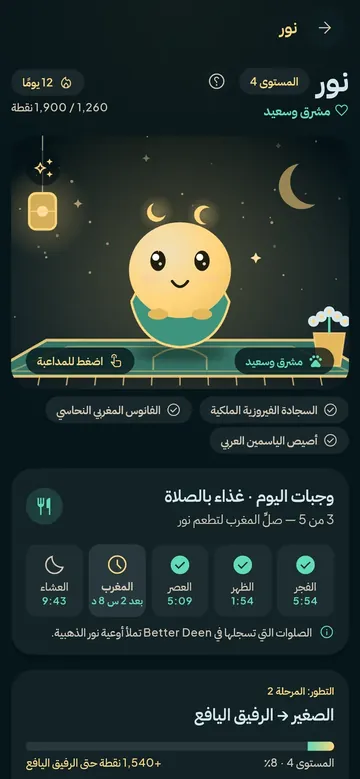
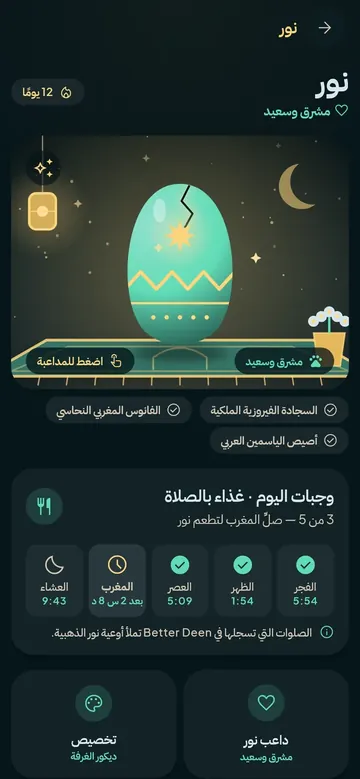
Website update

diff --git a/download-page/ar/index.html b/download-page/ar/index.html
@@ -3,7 +3,7 @@
 <head>
 <meta charset="utf-8">
 <meta name="viewport" content="width=device-width, initial-scale=1">
-<title>Better Deen · مواقيت الصلاة والقرآن ورفيقك الإسلامي</title>
+<title>Better Deen · مواقيت الصلاة والقرآن وبيضة نور</title>
 <meta name="description" content="مواقيت الصلاة والأذان، والقرآن كاملًا قراءةً واستماعًا، وAsk Deen، ونور، ومسابقة في القرآن. بلا إعلانات ولا تحليلات.">
 <meta name="theme-color" content="#06151a" media="(prefers-color-scheme: dark)">
 <meta name="theme-color" content="#fbf8f1" media="(prefers-color-scheme: light)">
@@ -13,7 +13,7 @@
 <link rel="alternate" hreflang="ar" href="https://saydencinasfedi-creator.github.io/better-deen-app/ar/index.html">
 <link rel="alternate" hreflang="nl" href="https://saydencinasfedi-creator.github.io/better-deen-app/nl/index.html">
 <link rel="alternate" hreflang="x-default" href="https://saydencinasfedi-creator.github.io/better-deen-app/">
-<meta property="og:title" content="Better Deen · مواقيت الصلاة والقرآن ورفيقك الإسلامي">
+<meta property="og:title" content="Better Deen · مواقيت الصلاة والقرآن وبيضة نور">
 <meta property="og:description" content="مواقيت الصلاة والأذان، والقرآن كاملًا قراءةً واستماعًا، وAsk Deen، ونور، ومسابقة في القرآن. بلا إعلانات ولا تحليلات.">
 <meta property="og:image" content="https://saydencinasfedi-creator.github.io/better-deen-app/og.png">
 <meta property="og:image:width" content="1200">
@@ -24,7 +24,7 @@
 <meta property="og:site_name" content="Better Deen">
 <meta property="og:locale" content="ar_AR">
 <meta name="twitter:card" content="summary_large_image">
-<meta name="twitter:title" content="Better Deen · مواقيت الصلاة والقرآن ورفيقك الإسلامي">
+<meta name="twitter:title" content="Better Deen · مواقيت الصلاة والقرآن وبيضة نور">
 <meta name="twitter:description" content="مواقيت الصلاة والأذان، والقرآن كاملًا قراءةً واستماعًا، وAsk Deen، ونور، ومسابقة في القرآن. بلا إعلانات ولا تحليلات.">
 <meta name="twitter:image" content="https://saydencinasfedi-creator.github.io/better-deen-app/og.png">
 <link rel="icon" href="../icon.png">
@@ -62,7 +62,7 @@
     <div>
       <p class="eyebrow">لأجهزة iPhone وAndroid</p>
       <h1>كن أفضل مسلم تستطيع أن تكونه</h1>
-      <p class="lead">مواقيت الصلاة والأذان، والقرآن كاملًا، ومساعد للمعرفة الإسلامية، ورفيق ينمو مع كل صلاة. هادئ وخاص وبلا إعلانات.</p>
+      <p class="lead">مواقيت الصلاة والأذان، والقرآن كاملًا، ومساعد للمعرفة الإسلامية، وبيضة مضيئة تدفأ مع كل صلاة. هادئ وخاص وبلا إعلانات.</p>
       <div class="cta">
         <a class="btn btn-primary" href="download.html">التنزيل لأجهزة Android</a>
         <a class="btn btn-ghost" href="#features">اكتشف ما بداخله</a>
@@ -80,7 +80,7 @@
 <section id="how">
   <div class="wrap">
     <h2>جاهز خلال دقيقة</h2>
-    <ol class="how"><li class="reveal"><span class="step-n">1</span><div><h3>عرّفنا بنفسك</h3><p>اختر لغتك وطريقة الحساب ومذهبك. لا نفترض لك شيئًا أبدًا.</p></div></li><li class="reveal"><span class="step-n">2</span><div><h3>صلِّ معه</h3><p>الأذان والتنبيهات والأدوات المصغّرة في وقتها. سجّل كل صلاة وشاهد نور ينمو.</p></div></li><li class="reveal"><span class="step-n">3</span><div><h3>تعمّق أكثر</h3><p>اقرأ القرآن واستمع إليه، واسأل Deen، وتعلّم الصلاة، واستخدم كل الأدوات.</p></div></li></ol>
+    <ol class="how"><li class="reveal"><span class="step-n">1</span><div><h3>عرّفنا بنفسك</h3><p>اختر لغتك وطريقة الحساب ومذهبك. لا نفترض لك شيئًا أبدًا.</p></div></li><li class="reveal"><span class="step-n">2</span><div><h3>صلِّ معه</h3><p>الأذان والتنبيهات والأدوات المصغّرة في وقتها. سجّل كل صلاة وشاهد بيضة نور تدفأ.</p></div></li><li class="reveal"><span class="step-n">3</span><div><h3>تعمّق أكثر</h3><p>اقرأ القرآن واستمع إليه، واسأل Deen، وتعلّم الصلاة، واستخدم كل الأدوات.</p></div></li></ol>
   </div>
 </section>
 <section id="ask" class="band">
@@ -120,9 +120,9 @@
   <p>الرسم العثماني مع الترجمة والنطق بالحروف اللاتينية، ومصحف صفحة بصفحة، وتلاوات مئات القرّاء، مع التنزيل للاستماع دون اتصال ومشغّل يواصل في الخلفية.</p>
 </article>
 <article class="feature reveal">
-  <div class="phone"><img src="../screens/ar-noor.webp" srcset="../screens/ar-noor-sm.webp 360w, ../screens/ar-noor.webp 600w" sizes="(max-width: 640px) 70vw, 300px" width="390" height="844" alt="نور يكبر مع صلاتك" loading="lazy" decoding="async"></div>
-  <h3>نور يكبر مع صلاتك</h3>
-  <p>رفيقك يتغذّى بالصلوات التي تسجّلها، ويرتقي مع سلسلتك ويفتح كنوزًا. سبب لطيف للعودة خمس مرات في اليوم.</p>
+  <div class="phone"><img src="../screens/ar-noor.webp" srcset="../screens/ar-noor-sm.webp 360w, ../screens/ar-noor.webp 600w" sizes="(max-width: 640px) 70vw, 300px" width="390" height="844" alt="نور، بيضة تدفأ مع صلاتك" loading="lazy" decoding="async"></div>
+  <h3>نور، بيضة تدفأ مع صلاتك</h3>
+  <p>بيضة سماوية تدفأ مع كل صلاة تسجّلها: تظهر شقوق من نور، ومع الصلوات الخمس تشعّ. المسها لتهتز، وزيّنها بالكنوز التي تفتحها. سبب لطيف للعودة خمس مرات في اليوم.</p>
 </article>
 <article class="feature reveal">
   <div class="phone"><img src="../screens/ar-quiz.webp" srcset="../screens/ar-quiz-sm.webp 360w, ../screens/ar-quiz.webp 600w" sizes="(max-width: 640px) 70vw, 300px" width="390" height="844" alt="الساحة: مسابقة في القرآن" loading="lazy" decoding="async"></div>

diff --git a/download-page/es/index.html b/download-page/es/index.html
@@ -3,7 +3,7 @@
 <head>
 <meta charset="utf-8">
 <meta name="viewport" content="width=device-width, initial-scale=1">
-<title>Better Deen · Horarios de oración, Corán y tu compañero islámico</title>
+<title>Better Deen · Horarios de oración, Corán y el huevo de Noor</title>
 <meta name="description" content="Horarios de oración y adhan, el Corán entero para leer y escuchar, Ask Deen, Noor y un quiz del Corán. Sin anuncios ni analíticas.">
 <meta name="theme-color" content="#06151a" media="(prefers-color-scheme: dark)">
 <meta name="theme-color" content="#fbf8f1" media="(prefers-color-scheme: light)">
@@ -13,7 +13,7 @@
 <link rel="alternate" hreflang="ar" href="https://saydencinasfedi-creator.github.io/better-deen-app/ar/index.html">
 <link rel="alternate" hreflang="nl" href="https://saydencinasfedi-creator.github.io/better-deen-app/nl/index.html">
 <link rel="alternate" hreflang="x-default" href="https://saydencinasfedi-creator.github.io/better-deen-app/">
-<meta property="og:title" content="Better Deen · Horarios de oración, Corán y tu compañero islámico">
+<meta property="og:title" content="Better Deen · Horarios de oración, Corán y el huevo de Noor">
 <meta property="og:description" content="Horarios de oración y adhan, el Corán entero para leer y escuchar, Ask Deen, Noor y un quiz del Corán. Sin anuncios ni analíticas.">
 <meta property="og:image" content="https://saydencinasfedi-creator.github.io/better-deen-app/og.png">
 <meta property="og:image:width" content="1200">
@@ -24,7 +24,7 @@
 <meta property="og:site_name" content="Better Deen">
 <meta property="og:locale" content="es_ES">
 <meta name="twitter:card" content="summary_large_image">
-<meta name="twitter:title" content="Better Deen · Horarios de oración, Corán y tu compañero islámico">
+<meta name="twitter:title" content="Better Deen · Horarios de oración, Corán y el huevo de Noor">
 <meta name="twitter:description" content="Horarios de oración y adhan, el Corán entero para leer y escuchar, Ask Deen, Noor y un quiz del Corán. Sin anuncios ni analíticas.">
 <meta name="twitter:image" content="https://saydencinasfedi-creator.github.io/better-deen-app/og.png">
 <link rel="icon" href="../icon.png">
@@ -62,7 +62,7 @@
     <div>
       <p class="eyebrow">Para iPhone y Android</p>
       <h1>Sé el mejor musulmán que puedas ser</h1>
-      <p class="lead">Horarios de oración y adhan, el Corán entero, un asistente de conocimiento islámico y una compañera que crece con cada salah. Tranquila, privada y sin anuncios.</p>
+      <p class="lead">Horarios de oración y adhan, el Corán entero, un asistente de conocimiento islámico y un huevo luminoso que se calienta con cada salah. Tranquila, privada y sin anuncios.</p>
       <div class="cta">
         <a class="btn btn-primary" href="download.html">Descargar para Android</a>
         <a class="btn btn-ghost" href="#features">Ver qué incluye</a>
@@ -80,7 +80,7 @@
 <section id="how">
   <div class="wrap">
     <h2>Listo en un minuto</h2>
-    <ol class="how"><li class="reveal"><span class="step-n">1</span><div><h3>Cuéntanos de ti</h3><p>Elige tu idioma, método de cálculo y madhab. Nunca damos uno por defecto.</p></div></li><li class="reveal"><span class="step-n">2</span><div><h3>Reza con ella</h3><p>Adhan, avisos y widgets a su hora. Registra cada oración y mira crecer a Noor.</p></div></li><li class="reveal"><span class="step-n">3</span><div><h3>Profundiza</h3><p>Lee y escucha el Corán, pregunta a Deen, aprende a rezar y usa cada herramienta.</p></div></li></ol>
+    <ol class="how"><li class="reveal"><span class="step-n">1</span><div><h3>Cuéntanos de ti</h3><p>Elige tu idioma, método de cálculo y madhab. Nunca damos uno por defecto.</p></div></li><li class="reveal"><span class="step-n">2</span><div><h3>Reza con ella</h3><p>Adhan, avisos y widgets a su hora. Registra cada oración y mira cómo se calienta el huevo de Noor.</p></div></li><li class="reveal"><span class="step-n">3</span><div><h3>Profundiza</h3><p>Lee y escucha el Corán, pregunta a Deen, aprende a rezar y usa cada herramienta.</p></div></li></ol>
   </div>
 </section>
 <section id="ask" class="band">
@@ -120,9 +120,9 @@
   <p>Texto Uthmani con traducción y transliteración, un mushaf página a página y recitaciones de cientos de recitadores, con descargas sin conexión y un reproductor que sigue sonando en segundo plano.</p>
 </article>
 <article class="feature reveal">
-  <div class="phone"><img src="../screens/es-noor.webp" srcset="../screens/es-noor-sm.webp 360w, ../screens/es-noor.webp 600w" sizes="(max-width: 640px) 70vw, 300px" width="390" height="844" alt="Noor crece con tu salah" loading="lazy" decoding="async"></div>
-  <h3>Noor crece con tu salah</h3>
-  <p>Tu compañero se alimenta con las oraciones que registras, sube de nivel con tu racha y desbloquea tesoros. Una razón amable para volver cinco veces al día.</p>
+  <div class="phone"><img src="../screens/es-noor.webp" srcset="../screens/es-noor-sm.webp 360w, ../screens/es-noor.webp 600w" sizes="(max-width: 640px) 70vw, 300px" width="390" height="844" alt="Noor, un huevo que se calienta con tu salah" loading="lazy" decoding="async"></div>
+  <h3>Noor, un huevo que se calienta con tu salah</h3>
+  <p>Un huevo celestial que se calienta con cada oración que registras: aparecen grietas de luz y, con las cinco, brilla. Tócalo para que se bambolee y vístelo con los tesoros que desbloquees. Una razón amable para volver cinco veces al día.</p>
 </article>
 <article class="feature reveal">
   <div class="phone"><img src="../screens/es-quiz.webp" srcset="../screens/es-quiz-sm.webp 360w, ../screens/es-quiz.webp 600w" sizes="(max-width: 640px) 70vw, 300px" width="390" height="844" alt="La Arena: un quiz del Corán" loading="lazy" decoding="async"></div>

diff --git a/download-page/nl/index.html b/download-page/nl/index.html
@@ -3,7 +3,7 @@
 <head>
 <meta charset="utf-8">
 <meta name="viewport" content="width=device-width, initial-scale=1">
-<title>Better Deen · Gebedstijden, de Koran en je islamitische metgezel</title>
+<title>Better Deen · Gebedstijden, de Koran en het ei van Noor</title>
 <meta name="description" content="Gebedstijden en adhan, de hele Koran om te lezen en te beluisteren, Ask Deen, Noor en een Koranquiz. Geen advertenties, geen analytics.">
 <meta name="theme-color" content="#06151a" media="(prefers-color-scheme: dark)">
 <meta name="theme-color" content="#fbf8f1" media="(prefers-color-scheme: light)">
@@ -13,7 +13,7 @@
 <link rel="alternate" hreflang="ar" href="https://saydencinasfedi-creator.github.io/better-deen-app/ar/index.html">
 <link rel="alternate" hreflang="nl" href="https://saydencinasfedi-creator.github.io/better-deen-app/nl/index.html">
 <link rel="alternate" hreflang="x-default" href="https://saydencinasfedi-creator.github.io/better-deen-app/">
-<meta property="og:title" content="Better Deen · Gebedstijden, de Koran en je islamitische metgezel">
+<meta property="og:title" content="Better Deen · Gebedstijden, de Koran en het ei van Noor">
 <meta property="og:description" content="Gebedstijden en adhan, de hele Koran om te lezen en te beluisteren, Ask Deen, Noor en een Koranquiz. Geen advertenties, geen analytics.">
 <meta property="og:image" content="https://saydencinasfedi-creator.github.io/better-deen-app/og.png">
 <meta property="og:image:width" content="1200">
@@ -24,7 +24,7 @@
 <meta property="og:site_name" content="Better Deen">
 <meta property="og:locale" content="nl_NL">
 <meta name="twitter:card" content="summary_large_image">
-<meta name="twitter:title" content="Better Deen · Gebedstijden, de Koran en je islamitische metgezel">
+<meta name="twitter:title" content="Better Deen · Gebedstijden, de Koran en het ei van Noor">
 <meta name="twitter:description" content="Gebedstijden en adhan, de hele Koran om te lezen en te beluisteren, Ask Deen, Noor en een Koranquiz. Geen advertenties, geen analytics.">
 <meta name="twitter:image" content="https://saydencinasfedi-creator.github.io/better-deen-app/og.png">
 <link rel="icon" href="../icon.png">
@@ -62,7 +62,7 @@
     <div>
       <p class="eyebrow">Voor iPhone en Android</p>
       <h1>Word de beste moslim die je kunt zijn</h1>
-      <p class="lead">Gebedstijden en adhan, de hele Koran, een assistent voor islamitische kennis en een metgezel die met elke salah groeit. Rustig, privé en zonder advertenties.</p>
+      <p class="lead">Gebedstijden en adhan, de hele Koran, een assistent voor islamitische kennis en een gloeiend ei dat met elke salah warmer wordt. Rustig, privé en zonder advertenties.</p>
       <div class="cta">
         <a class="btn btn-primary" href="download.html">Downloaden voor Android</a>
         <a class="btn btn-ghost" href="#features">Bekijk wat erin zit</a>
@@ -80,7 +80,7 @@
 <section id="how">
   <div class="wrap">
     <h2>In een minuut aan de slag</h2>
-    <ol class="how"><li class="reveal"><span class="step-n">1</span><div><h3>Vertel ons over jezelf</h3><p>Kies je taal, berekeningsmethode en madhab. Wij nemen nooit iets voor je aan.</p></div></li><li class="reveal"><span class="step-n">2</span><div><h3>Bid ermee</h3><p>Adhan, herinneringen en widgets op tijd. Registreer elk gebed en zie Noor groeien.</p></div></li><li class="reveal"><span class="step-n">3</span><div><h3>Ga dieper</h3><p>Lees en beluister de Koran, vraag het Deen, leer bidden en gebruik elke tool.</p></div></li></ol>
+    <ol class="how"><li class="reveal"><span class="step-n">1</span><div><h3>Vertel ons over jezelf</h3><p>Kies je taal, berekeningsmethode en madhab. Wij nemen nooit iets voor je aan.</p></div></li><li class="reveal"><span class="step-n">2</span><div><h3>Bid ermee</h3><p>Adhan, herinneringen en widgets op tijd. Registreer elk gebed en zie het ei van Noor warm worden.</p></div></li><li class="reveal"><span class="step-n">3</span><div><h3>Ga dieper</h3><p>Lees en beluister de Koran, vraag het Deen, leer bidden en gebruik elke tool.</p></div></li></ol>
   </div>
 </section>
 <section id="ask" class="band">
@@ -120,9 +120,9 @@
   <p>Uthmani-tekst met vertaling en transliteratie, een moeshaf pagina voor pagina, en recitaties van honderden reciteerders, met offline downloads en een speler die op de achtergrond doorspeelt.</p>
 </article>
 <article class="feature reveal">
-  <div class="phone"><img src="../screens/nl-noor.webp" srcset="../screens/nl-noor-sm.webp 360w, ../screens/nl-noor.webp 600w" sizes="(max-width: 640px) 70vw, 300px" width="390" height="844" alt="Noor groeit met je salah" loading="lazy" decoding="async"></div>
-  <h3>Noor groeit met je salah</h3>
-  <p>Je metgezel wordt gevoed door de gebeden die je bijhoudt, stijgt in niveau met je reeks en ontgrendelt schatten. Een vriendelijke reden om vijf keer per dag terug te komen.</p>
+  <div class="phone"><img src="../screens/nl-noor.webp" srcset="../screens/nl-noor-sm.webp 360w, ../screens/nl-noor.webp 600w" sizes="(max-width: 640px) 70vw, 300px" width="390" height="844" alt="Noor, een ei dat warm wordt met je salah" loading="lazy" decoding="async"></div>
+  <h3>Noor, een ei dat warm wordt met je salah</h3>
+  <p>Een hemels ei dat warmer wordt met elk gebed dat je bijhoudt: er verschijnen lichtscheuren en met alle vijf straalt het. Tik erop om het te laten schommelen en versier het met de schatten die je ontgrendelt. Een vriendelijke reden om vijf keer per dag terug te komen.</p>
 </article>
 <article class="feature reveal">
   <div class="phone"><img src="../screens/nl-quiz.webp" srcset="../screens/nl-quiz-sm.webp 360w, ../screens/nl-quiz.webp 600w" sizes="(max-width: 640px) 70vw, 300px" width="390" height="844" alt="De Arena: een Koranquiz" loading="lazy" decoding="async"></div>

diff --git a/download-page/en/index.html b/download-page/en/index.html
@@ -3,7 +3,7 @@
 <head>
 <meta charset="utf-8">
 <meta name="viewport" content="width=device-width, initial-scale=1">
-<title>Better Deen · Prayer times, Qur&#x27;an and your Islamic companion</title>
+<title>Better Deen · Prayer times, Qur&#x27;an and Noor&#x27;s egg</title>
 <meta name="description" content="Prayer times and adhan, the whole Qur&#x27;an to read and listen, Ask Deen, Noor and a Qur&#x27;an quiz. No ads, no analytics.">
 <meta name="theme-color" content="#06151a" media="(prefers-color-scheme: dark)">
 <meta name="theme-color" content="#fbf8f1" media="(prefers-color-scheme: light)">
@@ -13,7 +13,7 @@
 <link rel="alternate" hreflang="ar" href="https://saydencinasfedi-creator.github.io/better-deen-app/ar/index.html">
 <link rel="alternate" hreflang="nl" href="https://saydencinasfedi-creator.github.io/better-deen-app/nl/index.html">
 <link rel="alternate" hreflang="x-default" href="https://saydencinasfedi-creator.github.io/better-deen-app/">
-<meta property="og:title" content="Better Deen · Prayer times, Qur&#x27;an and your Islamic companion">
+<meta property="og:title" content="Better Deen · Prayer times, Qur&#x27;an and Noor&#x27;s egg">
 <meta property="og:description" content="Prayer times and adhan, the whole Qur&#x27;an to read and listen, Ask Deen, Noor and a Qur&#x27;an quiz. No ads, no analytics.">
 <meta property="og:image" content="https://saydencinasfedi-creator.github.io/better-deen-app/og.png">
 <meta property="og:image:width" content="1200">
@@ -24,7 +24,7 @@
 <meta property="og:site_name" content="Better Deen">
 <meta property="og:locale" content="en_US">
 <meta name="twitter:card" content="summary_large_image">
-<meta name="twitter:title" content="Better Deen · Prayer times, Qur&#x27;an and your Islamic companion">
+<meta name="twitter:title" content="Better Deen · Prayer times, Qur&#x27;an and Noor&#x27;s egg">
 <meta name="twitter:description" content="Prayer times and adhan, the whole Qur&#x27;an to read and listen, Ask Deen, Noor and a Qur&#x27;an quiz. No ads, no analytics.">
 <meta name="twitter:image" content="https://saydencinasfedi-creator.github.io/better-deen-app/og.png">
 <link rel="icon" href="../icon.png">
@@ -62,7 +62,7 @@
     <div>
       <p class="eyebrow">For iPhone and Android</p>
       <h1>Become the best Muslim you can be</h1>
-      <p class="lead">Prayer times and adhan, the whole Qur&#x27;an, an Islamic knowledge assistant and a companion who grows with every salah. Calm, private and ad-free.</p>
+      <p class="lead">Prayer times and adhan, the whole Qur&#x27;an, an Islamic knowledge assistant and a glowing egg that warms with every salah. Calm, private and ad-free.</p>
       <div class="cta">
         <a class="btn btn-primary" href="download.html">Download for Android</a>
         <a class="btn btn-ghost" href="#features">See what&#x27;s inside</a>
@@ -80,7 +80,7 @@
 <section id="how">
   <div class="wrap">
     <h2>Up and running in a minute</h2>
-    <ol class="how"><li class="reveal"><span class="step-n">1</span><div><h3>Tell us about you</h3><p>Pick your language, calculation method and madhab. We never assume one for you.</p></div></li><li class="reveal"><span class="step-n">2</span><div><h3>Pray with it</h3><p>Adhan, reminders and widgets on time. Log each prayer and watch Noor grow.</p></div></li><li class="reveal"><span class="step-n">3</span><div><h3>Go deeper</h3><p>Read and listen to the Qur&#x27;an, ask Deen, learn to pray, and use every tool.</p></div></li></ol>
+    <ol class="how"><li class="reveal"><span class="step-n">1</span><div><h3>Tell us about you</h3><p>Pick your language, calculation method and madhab. We never assume one for you.</p></div></li><li class="reveal"><span class="step-n">2</span><div><h3>Pray with it</h3><p>Adhan, reminders and widgets on time. Log each prayer and watch Noor&#x27;s egg warm up.</p></div></li><li class="reveal"><span class="step-n">3</span><div><h3>Go deeper</h3><p>Read and listen to the Qur&#x27;an, ask Deen, learn to pray, and use every tool.</p></div></li></ol>
   </div>
 </section>
 <section id="ask" class="band">
@@ -120,9 +120,9 @@
   <p>Uthmani text with translation and transliteration, a page-by-page mushaf, and recitations from hundreds of reciters, offline downloads and a player that keeps going in the background.</p>
 </article>
 <article class="feature reveal">
-  <div class="phone"><img src="../screens/en-noor.webp" srcset="../screens/en-noor-sm.webp 360w, ../screens/en-noor.webp 600w" sizes="(max-width: 640px) 70vw, 300px" width="390" height="844" alt="Noor grows with your salah" loading="lazy" decoding="async"></div>
-  <h3>Noor grows with your salah</h3>
-  <p>Your companion is fed by the prayers you log, levels up with your streak and unlocks treasures. A gentle reason to come back five times a day.</p>
+  <div class="phone"><img src="../screens/en-noor.webp" srcset="../screens/en-noor-sm.webp 360w, ../screens/en-noor.webp 600w" sizes="(max-width: 640px) 70vw, 300px" width="390" height="844" alt="Noor, an egg that warms with your salah" loading="lazy" decoding="async"></div>
+  <h3>Noor, an egg that warms with your salah</h3>
+  <p>A celestial egg that warms with every prayer you log: light cracks appear and, with all five, it shines. Tap it to make it wobble, and dress it with the treasures you unlock. A gentle reason to come back five times a day.</p>
 </article>
 <article class="feature reveal">
   <div class="phone"><img src="../screens/en-quiz.webp" srcset="../screens/en-quiz-sm.webp 360w, ../screens/en-quiz.webp 600w" sizes="(max-width: 640px) 70vw, 300px" width="390" height="844" alt="The Arena: a Qur&#x27;an quiz" loading="lazy" decoding="async"></div>
